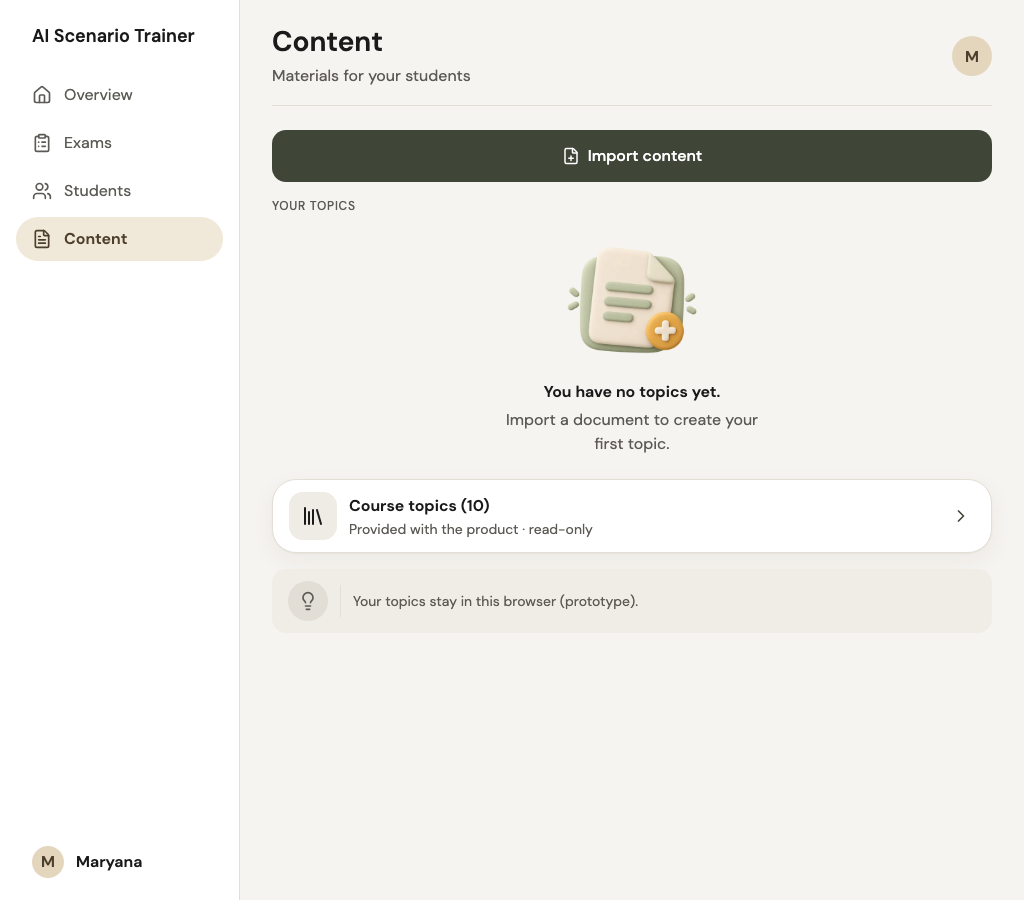
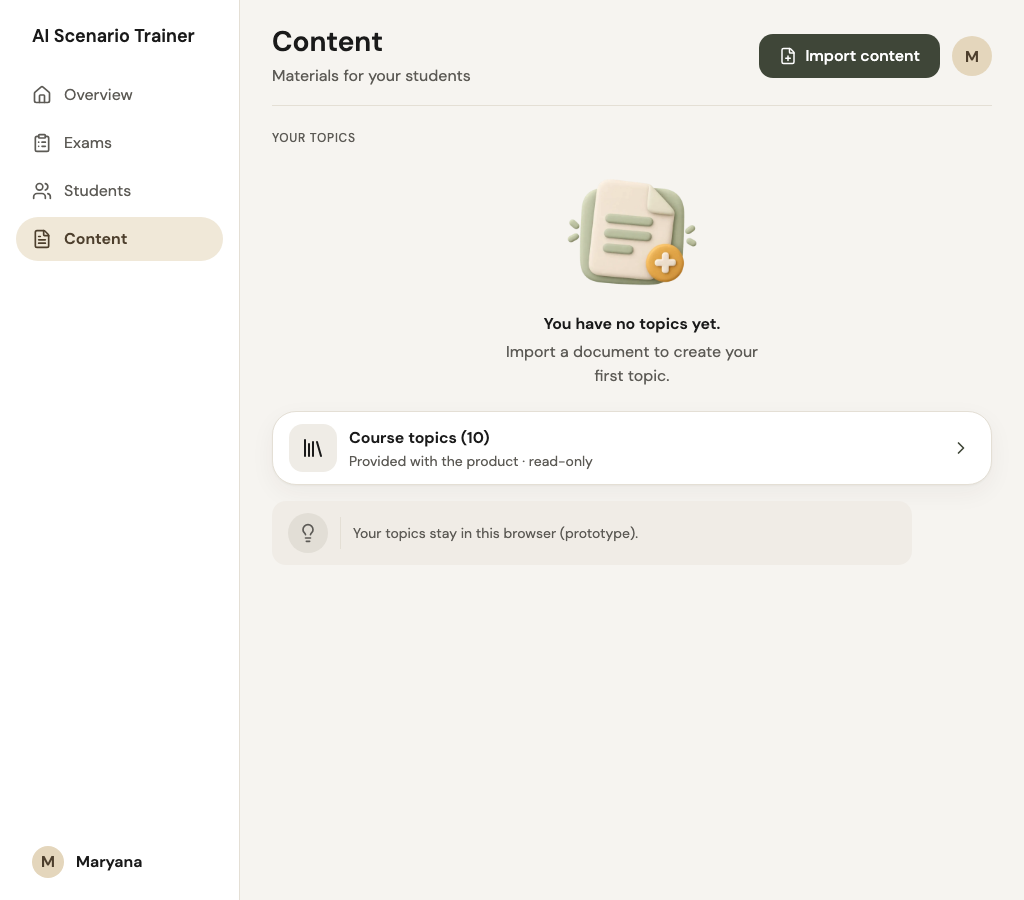
docs: Content area desktop layouts, pictures and review page

Changed region(s): [[0.25, 0.1244, 0.9688, 0.6844], [0.7188, 0.0311, 0.9375, 0.0933]]

diff --git a/app/screens/page.tsx b/app/screens/page.tsx
@@ -93,22 +93,28 @@ function ReadingExample({ id }: { id: string }) {
 
 const desktopPictures = [
   ["instructor-overview", "Overview"],
-  ["instructor-exams-closed-open", "Exams (closed exams shown)"],
   ["instructor-exam-active", "Exam detail with results (table)"],
-  ["instructor-exam-new-no-results", "Exam detail, no results yet (names only)"],
-  ["instructor-exam-closed", "Exam detail, closed"],
-  ["instructor-students", "Students (table with extra columns)"],
+  ["instructor-students", "Students (table)"],
   ["instructor-students-filter-open", "Students, status menu open"],
-  ["instructor-students-filtered", "Students, status filter chip"],
-  ["instructor-students-no-results", "Students, no results"],
-  ["instructor-students-topics", "Students, Topics view"],
   ["instructor-topic-students", "Topic students (table)"],
-  ["instructor-student-detail-needs", "Student detail, topics to review"],
-  ["instructor-student-detail", "Student detail, nothing to review"],
-  ["instructor-student-detail-new", "Student detail, no activity yet"],
+  ["instructor-student-detail-needs", "Student detail, merged topics table"],
+  ["instructor-student-detail-new", "Student detail, No practice yet"],
+  ["instructor-content-empty", "Content, empty"],
+  ["instructor-content-with-topic", "Content, with a topic"],
+  ["instructor-content-course", "Course topics"],
+  ["instructor-content-built-in", "Course topic (read-only)"],
+  ["instructor-content-import-file", "Import content, file chosen (card footer)"],
+  ["instructor-content-analysing", "Analysing"],
+  ["instructor-content-draft-ready", "Draft is ready"],
+  ["instructor-topic-guide", "Topic screen, Guide tab"],
+  ["instructor-topic-steps", "Topic screen, Steps tab (table)"],
+  ["instructor-topic-scenario", "Topic screen, Scenario tab"],
+  ["instructor-topic-quiz", "Topic screen, Quiz tab (table)"],
+  ["instructor-topic-details-edit", "Edit title and summary"],
+  ["instructor-topic-item-edit", "Question edit"],
+  ["instructor-content-set-review", "Question-set review (table)"],
+  ["instructor-topic-preview", "Preview as student (framed)"],
   ["instructor-exam-assign", "Assign exam (pinned bar, dialog in step 6)"],
-  ["instructor-content-with-topic", "Content (not converted yet)"],
-  ["instructor-content-import-result", "Import result (not converted yet)"],
   ["instructor-dialog", "A dialog"],
   ["instructor-notice", "The floating notice under the header"],
 ] as const;

diff --git a/DESIGN.md b/DESIGN.md
@@ -1142,3 +1142,12 @@ The values below are read from `app/globals.css`. When a brief or an older note 
 - "Clear search" in the no-results card is a centred Secondary button of auto width on desktop (full width on the phone).
 - The Overview "Needs your action" card keeps its own height and the top alignment, with one item or three.
 - Resize: when the window grows past 1024px while the phone filter sheet is open, the sheet closes and applies nothing; the filter in the address is kept; resizing back does not reopen it.
+
+## Responsive instructor, step 5: the Content area (3 Nov 2026)
+- Content list (from 1024px): "Import content" is the one Primary, in the header (the avatar beside it). YOUR TOPICS is a card grid (2 columns, 3 from a content width of 1100px); the empty state is the 3D picture, centred, at most 640px; "Course topics (n)" is a full-width card under the grid and the prototype note is at most 640px. Course topics is a card grid of the same columns; a course topic is a column of at most 880px with the tab bar (Overview, Steps) where a step guide exists.
+- One-card flows (import start, analysing, "Draft is ready"): one white card centred in the content column, at most 640px, about 48px under the header. The screen's actions close the card after a 1px divider (`CardFooter`: Secondary on the left, Primary on the right, 44px, auto width); the pinned bar is not drawn from 1024px (`ActionBar hideOnDesk`). The import summary keeps its icon rows inside the card. The old question-set import is retired and redirects to Import content.
+- Topic screen: Back, the topic name as the title, the status chip (Draft or Published) with "Last edited" under the subtitle, and the actions in the header (Publish or "Review N items" as the one Primary, "Preview as student" and the "More actions" menu as before). The four tabs are the desktop tab bar (`TabBar`, role tablist, an underline of 2px Primary on the active tab, sand hover, focus ring, arrow keys, Home and End); the phone keeps the segmented control. Tab content is a column of at most 880px. Guide and Scenario stay cards; Steps and Questions are shared DataTables (Question: number and text; Type; Guide section as a chip; To check; a row opens the item's edit screen unless the topic is published).
+- Edit screens (topic details, item, question): a form column of at most 720px (fields at most 560px except long text, 720px), labels above fields, Save as the Primary and Cancel or Delete as Secondary in the header; the floating notice stays under the header. Single-choice cards, dropdowns and centred dialogs are unchanged; nothing is a sheet.
+- Review: the question-set review is a counts card, the All and Needs attention control (320px) and a DataTable (Question, Status, To fix); Publish and Delete set are in the header and the publish hint is a line above the table. The summary of a guided review keeps its list and its actions in the header.
+- Preview as student: from 1024px the student screen is drawn inside a framed 430px column (1px border, soft shadow, radius 24px) and "Exit preview" (Secondary) is above it. Inside the frame the phone layout is kept: the `idesk:` variant is never true inside `[data-phone-frame]`. The student's own pinned bar (Check, Next) is still drawn at the bottom of the content column, outside the frame.
+- Student detail: one merged TOPICS table with a Status column (Needs review first, then On track and Not practised; sortable); a student with no answers has one card "No practice yet" ("Practice results will appear here once the student starts.") on the phone and on desktop; the 72px readiness ring is left of the percentage; the exam table's last column is "Result" and only carries the score or the start time (no repeat of the status); the Students status menu flips to the right edge when it would leave the content area.
